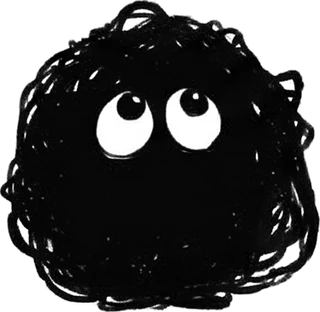
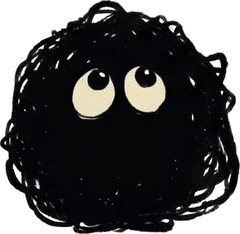
About page: smaller poses, cream eyes like the app characters
Claude-Session: https://claude.ai/code/session_01D81eScnbEyZeYyBQwyJoQD

diff --git a/public/index.html b/public/index.html
@@ -325,8 +325,8 @@
   .ab-brand { color: var(--pencil); font-size: var(--t-label-fs); font-weight: var(--t-label-fw); line-height: var(--t-label-lh); margin-bottom: 8px}
   .ab h1 { margin: 0; font-size: var(--t-display-fs); font-weight: var(--t-display-fw); line-height: var(--t-display-lh);}
   .ab-hero p { margin: 12px 0 0; color: var(--ink-2); word-break: keep-all; font-size: var(--t-body-fs); font-weight: var(--t-body-fw); line-height: var(--t-body-lh);}
-  .ab-hero-art { position: relative; align-self: center; margin-top: 40px; width: 128px; height: 136px}
-  .ab-hero-art .ab-y { width: 128px; height: auto; animation: abBob 3.2s ease-in-out infinite}
+  .ab-hero-art { position: relative; align-self: center; margin-top: 32px; width: 84px; height: 92px}
+  .ab-hero-art .ab-y { width: 84px; height: auto; animation: abBob 3.2s ease-in-out infinite}
   .ab-shadow { position: absolute; left: 50%; bottom: 0; width: 70%; height: 10px; transform: translateX(-50%); border-radius: 50%; background: rgba(25,26,44,0.129); z-index: -1}
   @keyframes abBob { 0%, 100% { transform: translateY(0)} 50% { transform: translateY(-5px)} }
   .ab-ch { display: flex; flex-direction: column; align-items: center; text-align: center}
@@ -337,24 +337,24 @@
   .ab-s { margin: 10px 0 0; max-width: 320px; color: var(--ink-2); word-break: keep-all; font-size: var(--t-desc-fs); font-weight: var(--t-desc-fw); line-height: var(--t-desc-lh);}
   .ab-tag { margin: 16px 0 0; display: inline-block; padding: 8px 14px; background: var(--paper); border: 1.8px dashed var(--pencil); border-radius: 9999px; font-size: var(--t-btn-s-fs); font-weight: var(--t-btn-s-fw); line-height: var(--t-btn-s-lh);}
   .ab-thread { display: block; margin: 20px auto; color: var(--ink); opacity: .6}
-  .ab-big { position: relative; margin-top: 8px; width: 310px; max-width: 100%; height: 190px; display: grid; place-items: center}
-  .ab-big .ab-y { width: 124px}
+  .ab-big { position: relative; margin-top: 8px; width: 300px; max-width: 100%; height: 160px; display: grid; place-items: center}
+  .ab-big .ab-y { width: 84px}
   .ab-b { position: absolute; padding: 6px 12px; background: var(--paper); border: 1.8px solid var(--pencil); border-radius: 12px; white-space: nowrap; font-size: var(--t-btn-s-fs); font-weight: var(--t-btn-s-fw); line-height: var(--t-btn-s-lh);}
   .ab-b.b1 { left: 0; top: 8px; transform: rotate(-4deg)}
   .ab-b.b2 { right: 0; top: 40px; transform: rotate(3deg)}
   .ab-b.b3 { left: 12px; bottom: 4px; transform: rotate(2deg)}
-  .ab-art { position: relative; margin-top: 20px; width: 104px; height: 112px}
-  .ab-art .ab-y { width: 104px}
-  .ab-note-w { position: relative; margin-top: 20px; width: 100%; max-width: 320px; padding-left: 26px}
-  .ab-peek { position: absolute; left: -22px; top: 22px; width: 52px; height: auto; z-index: 0}
+  .ab-art { position: relative; margin-top: 20px; width: 72px; height: 80px}
+  .ab-art .ab-y { width: 72px}
+  .ab-note-w { position: relative; margin-top: 20px; width: 100%; max-width: 320px; padding-left: 20px}
+  .ab-peek { position: absolute; left: -18px; top: 20px; width: 42px; height: auto; z-index: 0}
   .ab-note { position: relative; z-index: 1; text-align: left; background: var(--paper); padding: 16px 16px 14px; box-shadow: 0 16px 14px -14px rgba(25,26,44,0.455)}
   .ab-note::before { content: ""; position: absolute; right: 0; top: 0; width: 20px; height: 20px; background: linear-gradient(to bottom left, var(--bg) 50%, transparent 50%)}
   .ab-note .q { display: block; padding-bottom: 10px; margin-bottom: 10px; border-bottom: 1px solid var(--rule-paper); font-size: var(--t-heading-fs); font-weight: var(--t-heading-fw); line-height: var(--t-heading-lh);}
   .ab-note p { margin: 0; word-break: keep-all; font-size: var(--t-body-fs); font-weight: var(--t-body-fw); line-height: var(--t-body-lh);}
   .ab-note mark { background: linear-gradient(transparent 58%, var(--mark) 58%); color: inherit}
-  .ab-end { margin-top: 20px; display: flex; align-items: flex-end; gap: 10px; height: 76px}
-  .ab-end .ab-y { width: 84px}
-  .ab-crum { width: 46px; height: 46px; border-radius: 48% 52% 45% 55%; background: radial-gradient(circle at 34% 30%, var(--paper), rgba(25,26,44,0.129) 140%), var(--paper); box-shadow: inset -4px -5px 0 rgba(25,26,44,0.063), 0 3px 0 rgba(25,26,44,0.063); transform: rotate(-12deg)}
+  .ab-end { margin-top: 20px; display: flex; align-items: flex-end; gap: 8px; height: 56px}
+  .ab-end .ab-y { width: 64px}
+  .ab-crum { width: 38px; height: 38px; border-radius: 48% 52% 45% 55%; background: radial-gradient(circle at 34% 30%, var(--paper), rgba(25,26,44,0.129) 140%), var(--paper); box-shadow: inset -4px -5px 0 rgba(25,26,44,0.063), 0 3px 0 rgba(25,26,44,0.063); transform: rotate(-12deg)}
   .ab-pay { margin: 20px 0 0; font-size: var(--t-title-fs); font-weight: var(--t-title-fw); line-height: var(--t-title-lh);}
   .ab-map { position: relative; margin-top: 20px; width: 100%; max-width: 340px; height: 232px; border-radius: 20px; overflow: hidden; background: #D9DFC8 url(./map-bg.webp) -420px -560px / 1200px 1500px no-repeat; box-shadow: inset 0 0 0 1px rgba(25,26,44,0.063)}
   .ab-mb { position: absolute; display: flex; flex-direction: column; gap: 2px; max-width: 168px; padding: 8px 12px; background: #FBFAF6; color: #1F1C16; border-radius: 12px; text-align: left; word-break: keep-all; box-shadow: 0 6px 10px rgba(31,28,22,0.173); font-size: var(--t-btn-s-fs); font-weight: var(--t-btn-s-fw); line-height: var(--t-btn-s-lh);}
@@ -364,10 +364,10 @@
   .ab-mb.m2 { right: 14px; top: 92px}
   .ab-mb.m2::after { left: auto; right: 26px}
   .ab-mc { position: absolute; height: auto; filter: drop-shadow(0 4px 2px rgba(31,28,22,0.173))}
-  .ab-mc.c1 { left: 30px; top: 98px; width: 58px}
-  .ab-mc.c2 { right: 34px; top: 166px; width: 54px}
-  .ab-mc.c3 { left: 128px; top: 170px; width: 50px}
-  .ab-mc.c4 { left: 22px; top: 186px; width: 40px; opacity: .9}
+  .ab-mc.c1 { left: 40px; top: 104px; width: 42px}
+  .ab-mc.c2 { right: 44px; top: 172px; width: 40px}
+  .ab-mc.c3 { left: 140px; top: 180px; width: 36px}
+  .ab-mc.c4 { left: 34px; top: 190px; width: 30px; opacity: .9}
   .ab-sec { margin-top: 56px; padding-top: 28px; border-top: 1px dashed var(--rule-paper)}
   .ab h2 { margin: 0 0 14px; font-size: var(--t-appbar-fs); font-weight: var(--t-appbar-fw); line-height: var(--t-appbar-lh);}
   .ab-chips { display: flex; flex-wrap: wrap; gap: 8px}
@@ -376,7 +376,7 @@
   .ab-list li { color: var(--ink-2); word-break: keep-all; font-size: var(--t-desc-fs); font-weight: var(--t-desc-fw); line-height: var(--t-desc-lh);}
   .ab-list b { color: var(--ink)}
   .ab-sign { margin-top: 56px; padding: 32px 0 calc(16px + env(safe-area-inset-bottom, 0px)); display: flex; flex-direction: column; align-items: center; gap: 12px; text-align: center; border-top: 1px dashed var(--rule-paper)}
-  .ab-sign .ab-y { width: 44px; opacity: .9}
+  .ab-sign .ab-y { width: 34px; opacity: .9}
   .ab-sign p { margin: 0; color: var(--ink-2); font-size: var(--t-heading-fs); font-weight: var(--t-heading-fw); line-height: var(--t-heading-lh);}
   @media (prefers-reduced-motion: reduce) { .ab-hero-art .ab-y { animation: none} }
   @media (prefers-reduced-motion: reduce) { .ab, .ab.out { animation: none} }
